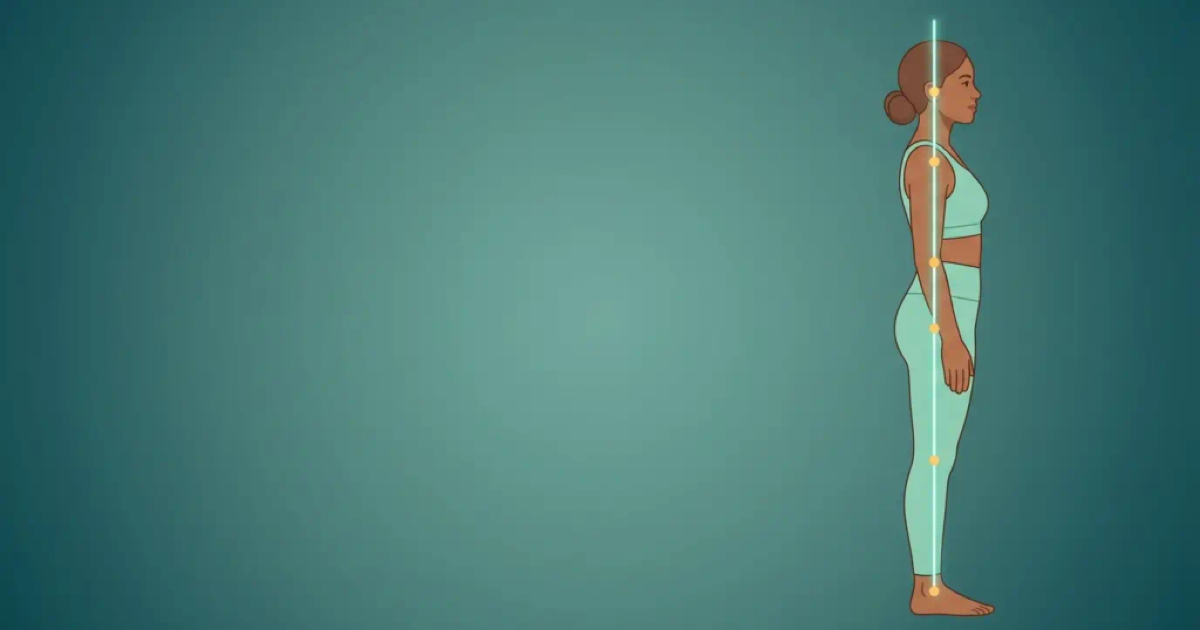
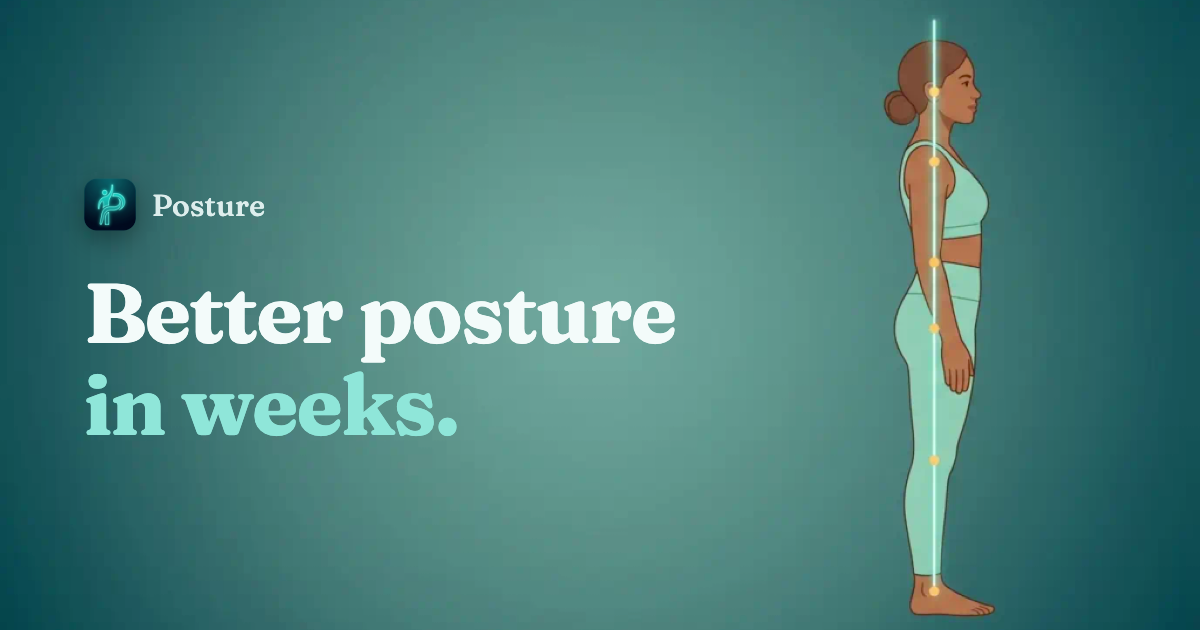
Landing: adaptive dark mode, bake headline into OG card

Changed region(s): [[0.0617, 0.4524, 0.5858, 0.6937], [0.0617, 0.2714, 0.2158, 0.3619]]

diff --git a/style.css b/style.css
@@ -27,6 +27,23 @@
 
   --maxw: 1080px;
   --measure: 68ch;
+
+  color-scheme: light dark;
+}
+
+/* Adaptive dark theme - same hue family, tokens swapped */
+@media (prefers-color-scheme: dark) {
+  :root {
+    --bg:        oklch(0.17 0.015 215);
+    --surface:   oklch(0.22 0.02 212);
+    --ink:       oklch(0.95 0.012 198);
+    --body:      oklch(0.80 0.016 200);
+    --muted:     oklch(0.66 0.016 202);
+    --line:      oklch(0.30 0.02 210);
+    --teal:      oklch(0.72 0.125 196);
+    --teal-deep: oklch(0.74 0.10 196);
+    --teal-soft: oklch(0.26 0.045 200);
+  }
 }
 
 * { margin: 0; padding: 0; box-sizing: border-box; }
@@ -74,6 +91,10 @@ header.nav .wrap { display: flex; align-items: center; justify-content: space-be
   transition: transform 0.25s cubic-bezier(0.2,0.7,0.3,1), background 0.25s;
 }
 .btn:hover { background: var(--ink); color: oklch(0.99 0.01 196); transform: translateY(-2px); }
+@media (prefers-color-scheme: dark) {
+  .btn { background: oklch(0.93 0.03 196); color: oklch(0.22 0.03 210); }
+  .btn:hover { background: oklch(0.98 0.015 196); color: oklch(0.20 0.03 210); }
+}
 .btn[aria-disabled="true"] { background: var(--surface); color: var(--muted); border: 1px solid var(--line); cursor: default; }
 .btn[aria-disabled="true"]:hover { transform: none; background: var(--surface); color: var(--muted); }
 .textlink { font-weight: 600; color: var(--teal-deep); }

diff --git a/index.html b/index.html
@@ -10,6 +10,8 @@
   <meta property="og:image" content="https://matteo-manzoni.github.io/posture-app/img/og-card.png">
   <meta property="og:type" content="website">
   <meta name="twitter:card" content="summary_large_image">
+  <meta name="theme-color" media="(prefers-color-scheme: light)" content="#fbfdfd">
+  <meta name="theme-color" media="(prefers-color-scheme: dark)" content="#14191c">
   <link rel="icon" href="appicon.png">
   <link rel="stylesheet" href="style.css">
 </head>